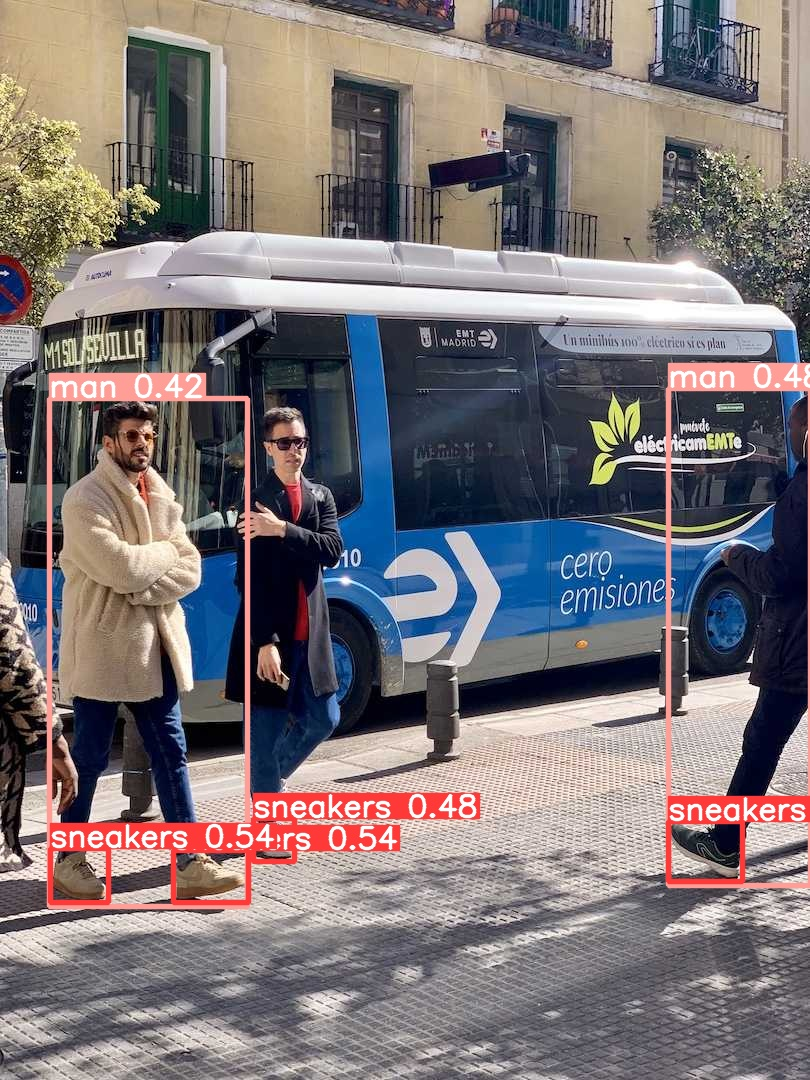
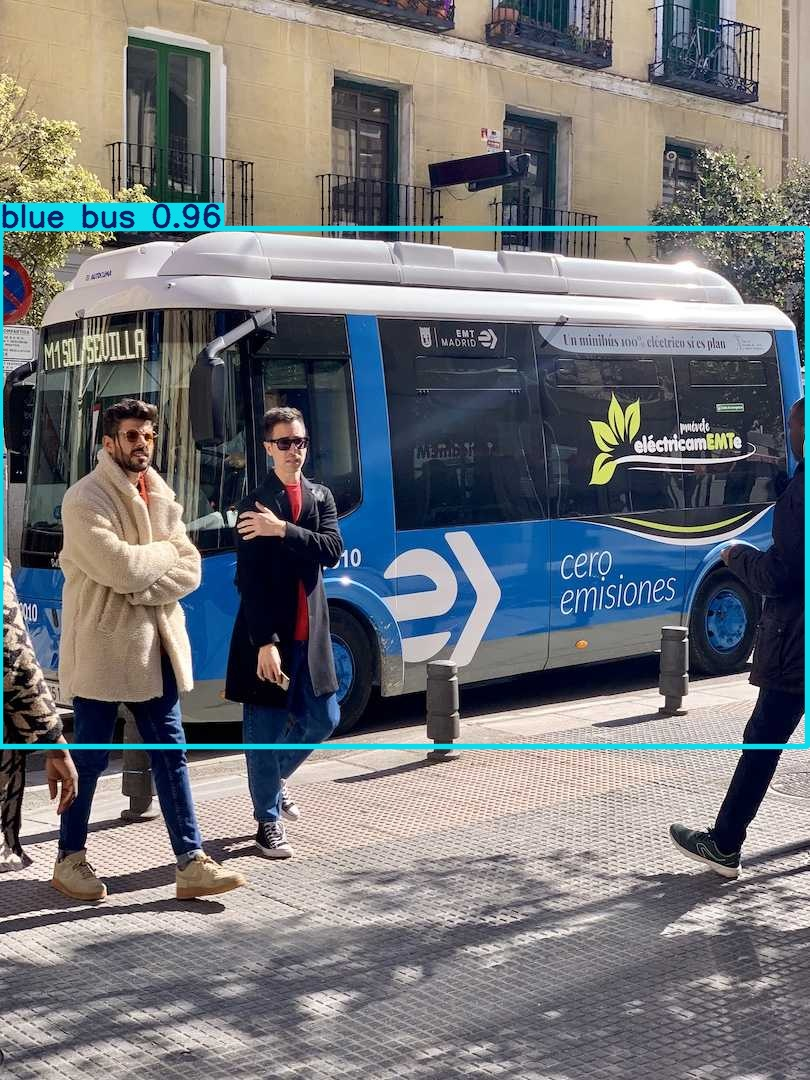
added tests, setting of classes

Changed region(s): [[0.0, 0.1833, 1.0, 0.8556]]

diff --git a/src/app.py b/src/app.py
@@ -1,9 +1,5 @@
 from flask import Flask, render_template, request, redirect, url_for
-import json
-import io
 from PIL import Image
-import time
-import threading
 import os
 from ultralytics import YOLOWorld, YOLO
 import torch
@@ -12,12 +8,18 @@ from nob import Nob
 
 MODELNAME = os.getenv("MODELNAME","yolov8x-worldv2")
 FORMAT = os.getenv("FORMAT","ultralytics")
-half=True
+DEVICE = os.getenv("DEVICE","cpu")
+HALF = os.getenv("HALF","False")
 
 app = Flask(__name__)
 model = YOLOWorld(f'{MODELNAME}.pt')
 
 device='cpu'
+
+if HALF=="True" or HALF=="true" or HALF=="1" or HALF=="yes":
+    half=True
+else:
+    half=False
 
 labels=set([])
 with open("config.yaml", 'r') as stream:
@@ -34,36 +36,53 @@ model.set_classes(list(labels))
 if (FORMAT=="onnx"):
     model.export(format="onnx") 
     model=YOLO(f"{MODELNAME}.onnx")
-    half=False
 
 if(FORMAT=="openvino"):
     model.export(format="openvino")
     model=YOLO(f"{MODELNAME}_openvino_model/")
-    half=False
 
 try:
     devcount=torch.cuda.device_count()
-    if devcount>0:   
-        device='cuda:0'
+    if devcount>0 and DEVICE!="cpu": 
+        device=DEVICE 
         model.to(device)
+        #print(torch.cuda.get_device_properties(0).major, torch.cuda.get_device_properties(0).minor) 
         freemem = torch.cuda.mem_get_info()[0]
         devicename=torch.cuda.get_device_name(device)
         print(f"running on {devicename}, {freemem/1024/1024:.0f} MB left")
+    else:
+        device="cpu"
+        print(f"running on CPU")
 except Exception as e:
     device='cpu'
     print(e)
 
+@app.route("/classes", methods=['POST','GET'])
+def set_classes():
+    if request.method=="GET":
+        return {"classes": tuple(model.names)}
+    classes=[]
+    if len(request.data)>1:
+        request_data = request.json
+        classes=tuple(request_data.get("classes",[]))
+    if len(classes)<1:
+        return {"classes": tuple(model.names)}
+    model.set_classes(classes)
+    print(f"classes: {model.names}")
+    return {"classes": classes}
+
 @app.route("/predict", methods=['POST'])
 def predict():
-    file = request.files['image']
+    file = request.files['image']        
     image=Image.open(file)
-    results = model.predict(image, save=False, conf=0.25, half=half, device=device)
 
+    
+    results = model.predict(image, save=False, conf=0.25, half=half, device=device)  
     #results[0].save("debug.jpg")
     
     predictions=[]
     
-    classes=results[0].boxes.cls.cpu().numpy().tolist()
+    classes=results[0].boxes.cls.cpu().numpy().astype(int).tolist()
     xyxy = results[0].boxes.xyxy.cpu().numpy().tolist()
     confidence = results[0].boxes.conf.cpu().numpy().tolist()
     
@@ -77,7 +96,7 @@ def predict():
         box['y_max']=int(xyxy[i][3])
         predictions.append(box)
     
-    print(predictions)       
+    #print(predictions)       
     return {"predictions": predictions}
 
 if __name__ == "__main__":

diff --git a/demo.py b/demo.py
@@ -1,0 +1,38 @@
+import numpy as np
+import requests
+import json
+from PIL import Image
+
+def classes(classes=[]):
+    if len(classes)<1:
+        response = requests.get("http://localhost:8040/classes")
+        return response
+    response = requests.post(
+                    "http://localhost:8040/classes",
+                    json  = {"classes": classes}
+                )
+    return response
+
+
+def predict(image, classes=[]):
+    if len(classes)<1:
+        response = requests.post(
+                        "http://localhost:8040/predict",
+                        data = {"api_key": "abc"},
+                        files={"image": open(image, 'rb')},
+                        timeout=20
+                    )
+        return response
+    response = requests.post(
+                        "http://localhost:8040/predict",
+                        json = {"classes": classes},
+                        files={"image": open(image, 'rb')},
+                        timeout=20
+                    )
+    return response
+
+print(json.dumps(classes(["sneaker","man"]).json()))
+print(json.dumps(predict("bus.jpg").json(), indent=2))
+print(json.dumps(classes(["red bus","blue bus"]).json()))
+print(json.dumps(predict("bus.jpg").json(), indent=2))
+print(json.dumps(classes().json()))

diff --git a/tests/test_yolostack.py b/tests/test_yolostack.py
@@ -1,0 +1,21 @@
+
+from io import BytesIO
+
+def test_classes(app, client):
+    response = client.post('/classes', json={"classes": ["a", "b", "c"]})
+    assert response.status_code == 200
+    assert 'classes' in response.json
+    assert 'a' in response.json['classes']
+    assert 'b' in response.json['classes']
+    assert 'c' in response.json['classes']
+
+def test_pediction(app, client):
+    with open('bus.jpg', 'rb') as img:
+        imgbytes = BytesIO(img.read())
+    
+    client.post('/classes', json={"classes": ["blue bus", "red bus"]})
+    response = client.post('/predict', data = {'image': (imgbytes, "bus.jpg")})
+    assert response.status_code == 200
+    assert 'predictions' in response.json
+    predictions=response.json["predictions"]
+    assert "blue bus" in response.json["predictions"][0]["label"]

diff --git a/tests/conftest.py b/tests/conftest.py
@@ -1,0 +1,10 @@
+import pytest
+from src.app import app as flask_app
+
+@pytest.fixture
+def app():
+    yield flask_app
+    
+@pytest.fixture
+def client(app):
+    return app.test_client()

diff --git a/ReadMe.md b/ReadMe.md
@@ -1,6 +1,6 @@
 # YoloStack
 
-YoloStack is a minimal replacement for the DeepStack AI Server (which seems not do be developed anymore :( ).
+YoloStack is a minimal replacement for the [DeepStack AI Server](https://github.com/johnolafenwa/DeepStack) (which seems not do be developed anymore :( ).
 
 It is limited to the ```predict```-endpoint only. It is tailored for use with [Frigate](https://frigate.video/). It for now only uses the [YOLOv8x-worldv2](https://docs.ultralytics.com/models/yolo-world/#available-models-supported-tasks-and-operating-modes) model.
 
